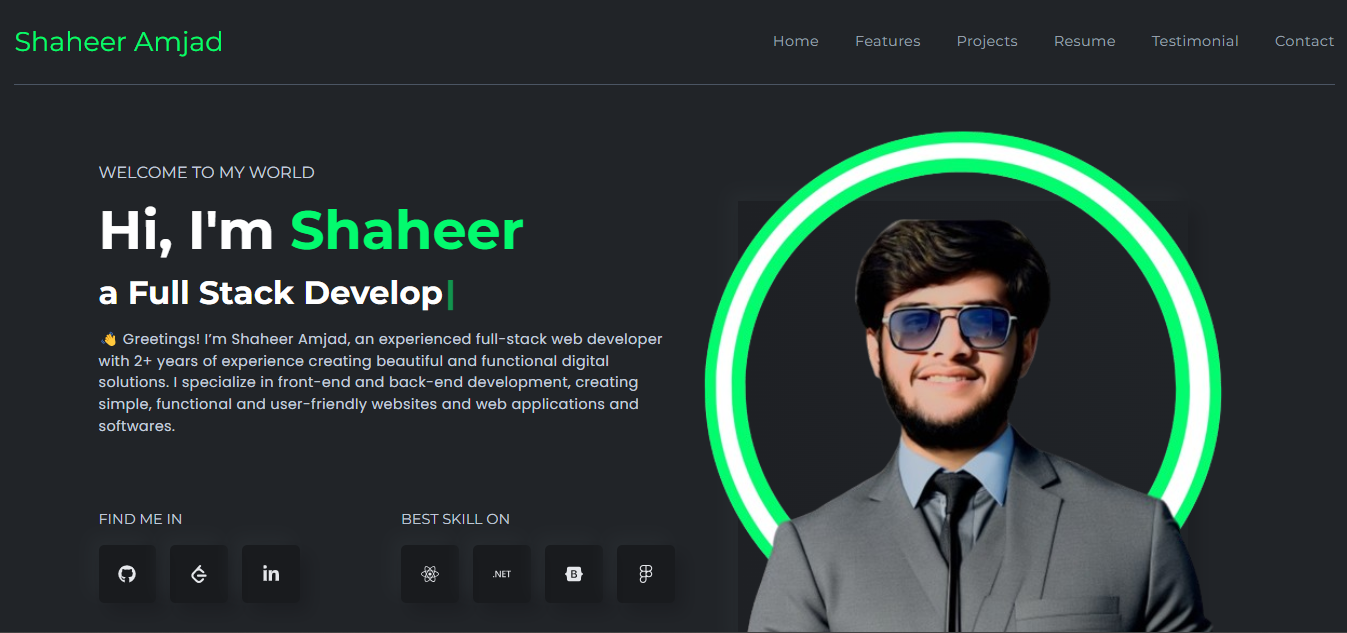
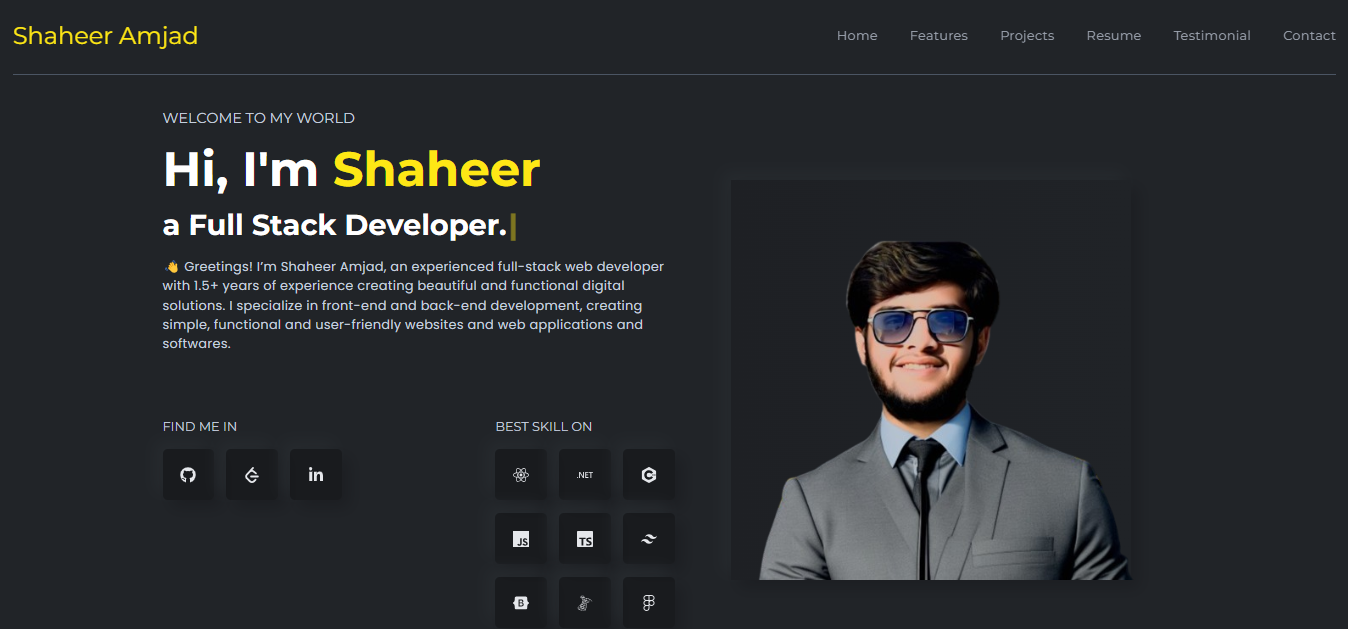
Done

diff --git a/src/components/resume/Skills.js b/src/components/resume/Skills.js
@@ -23,7 +23,7 @@ const Skills = () => {
                 initial={{ x: "-100%", opacity: 0 }}
                 animate={{ x: 0, opacity: 1 }}
                 transition={{ duration: 0.5, delay: 0.5 }}
-                className="w-full h-full bg-gradient-to-r from-blue-600 via-pink-500 to-red-500 rounded-md relative"
+                className="w-full h-full bg-gradient-to-r from-blue-600 via-pink-500 to-yellow-500 rounded-md relative"
               >
                 <span className="absolute -top-7 right-0">100%</span>
               </motion.span>
@@ -36,7 +36,7 @@ const Skills = () => {
                 initial={{ x: "-100%", opacity: 0 }}
                 animate={{ x: 0, opacity: 1 }}
                 transition={{ duration: 0.5, delay: 0.5 }}
-                className="w-[90%] h-full bg-gradient-to-r from-blue-600 via-pink-500 to-red-500 rounded-md relative"
+                className="w-[90%] h-full bg-gradient-to-r from-blue-600 via-pink-500 to-yellow-500 rounded-md relative"
               >
                 <span className="absolute -top-7 right-0">90%</span>
               </motion.span>
@@ -49,7 +49,7 @@ const Skills = () => {
                 initial={{ x: "-100%", opacity: 0 }}
                 animate={{ x: 0, opacity: 1 }}
                 transition={{ duration: 0.5, delay: 0.5 }}
-                className="w-[80%] h-full bg-gradient-to-r from-blue-600 via-pink-500 to-red-500 rounded-md relative"
+                className="w-[80%] h-full bg-gradient-to-r from-blue-600 via-pink-500 to-yellow-500 rounded-md relative"
               >
                 <span className="absolute -top-7 right-0">80%</span>
               </motion.span>
@@ -62,7 +62,7 @@ const Skills = () => {
                 initial={{ x: "-100%", opacity: 0 }}
                 animate={{ x: 0, opacity: 1 }}
                 transition={{ duration: 0.5, delay: 0.5 }}
-                className="w-[85%] h-full bg-gradient-to-r from-blue-600 via-pink-500 to-red-500 rounded-md relative"
+                className="w-[85%] h-full bg-gradient-to-r from-blue-600 via-pink-500 to-yellow-500 rounded-md relative"
               >
                 <span className="absolute -top-7 right-0">85%</span>
               </motion.span>
@@ -75,7 +75,7 @@ const Skills = () => {
                 initial={{ x: "-100%", opacity: 0 }}
                 animate={{ x: 0, opacity: 1 }}
                 transition={{ duration: 0.5, delay: 0.5 }}
-                className="w-[95%] h-full bg-gradient-to-r from-blue-600 via-pink-500 to-red-500 rounded-md relative"
+                className="w-[95%] h-full bg-gradient-to-r from-blue-600 via-pink-500 to-yellow-500 rounded-md relative"
               >
                 <span className="absolute -top-7 right-0">95%</span>
               </motion.span>
@@ -99,7 +99,7 @@ const Skills = () => {
                 initial={{ x: "-100%", opacity: 0 }}
                 animate={{ x: 0, opacity: 1 }}
                 transition={{ duration: 0.5, delay: 0.5 }}
-                className="w-full h-full bg-gradient-to-r from-blue-600 via-pink-500 to-red-500 rounded-md relative"
+                className="w-full h-full bg-gradient-to-r from-blue-600 via-pink-500 to-yellow-500 rounded-md relative"
               >
                 <span className="absolute -top-7 right-0">100%</span>
               </motion.span>
@@ -112,7 +112,7 @@ const Skills = () => {
                 initial={{ x: "-100%", opacity: 0 }}
                 animate={{ x: 0, opacity: 1 }}
                 transition={{ duration: 0.5, delay: 0.5 }}
-                className="w-[95%] h-full bg-gradient-to-r from-blue-600 via-pink-500 to-red-500 rounded-md relative"
+                className="w-[95%] h-full bg-gradient-to-r from-blue-600 via-pink-500 to-yellow-500 rounded-md relative"
               >
                 <span className="absolute -top-7 right-0">95%</span>
               </motion.span>
@@ -125,7 +125,7 @@ const Skills = () => {
                 initial={{ x: "-100%", opacity: 0 }}
                 animate={{ x: 0, opacity: 1 }}
                 transition={{ duration: 0.5, delay: 0.5 }}
-                className="w-[80%] h-full bg-gradient-to-r from-blue-600 via-pink-500 to-red-500 rounded-md relative"
+                className="w-[80%] h-full bg-gradient-to-r from-blue-600 via-pink-500 to-yellow-500 rounded-md relative"
               >
                 <span className="absolute -top-7 right-0">80%</span>
               </motion.span>
@@ -138,7 +138,7 @@ const Skills = () => {
                 initial={{ x: "-100%", opacity: 0 }}
                 animate={{ x: 0, opacity: 1 }}
                 transition={{ duration: 0.5, delay: 0.5 }}
-                className="w-[75%] h-full bg-gradient-to-r from-blue-600 via-pink-500 to-red-500 rounded-md relative"
+                className="w-[75%] h-full bg-gradient-to-r from-blue-600 via-pink-500 to-yellow-500 rounded-md relative"
               >
                 <span className="absolute -top-7 right-0">75%</span>
               </motion.span>
@@ -153,7 +153,7 @@ const Skills = () => {
                 initial={{ x: "-100%", opacity: 0 }}
                 animate={{ x: 0, opacity: 1 }}
                 transition={{ duration: 0.5, delay: 0.5 }}
-                className="w-[90%] h-full bg-gradient-to-r from-blue-600 via-pink-500 to-red-500 rounded-md relative"
+                className="w-[90%] h-full bg-gradient-to-r from-blue-600 via-pink-500 to-yellow-500 rounded-md relative"
               >
                 <span className="absolute -top-7 right-0">90%</span>
               </motion.span>

diff --git a/src/components/tesimonial/Testimonial.js b/src/components/tesimonial/Testimonial.js
@@ -75,7 +75,7 @@ const Testimonial = () => {
                 width: "12px",
                 height: "12px",
                 color: "blue",
-                background: "#03fb6e",
+                background: "#FEE715",
                 borderRadius: "50%",
                 cursor: "pointer",
               }
@@ -119,7 +119,7 @@ const Testimonial = () => {
                       Dr med Abdul Quddus Khokhar FRSA
                     </h3>
                     <p className="text-base tracking-wide text-gray-500">
-                      CEO | Member World Medical Association
+                      MBBS | Member World Medical Association
                     </p>
                   </div>
                 </div>

diff --git a/src/components/banner/LeftBanner.js b/src/components/banner/LeftBanner.js
@@ -19,6 +19,7 @@ const LeftBanner = () => {
       "Software Engineer.",
       "Full Stack Developer.",
       "Problem Solver.",
+      "CS Enthusiast",
       "UI/UX Designer.",
     ],
     loop: true,
@@ -38,7 +39,7 @@ const LeftBanner = () => {
           <Cursor
             cursorBlinking="false"
             cursorStyle="|"
-            cursorColor="#03fb6e"
+            cursorColor="#FEE715"
           />
         </h2>
         <p className="text-base font-bodyFont leading-6 tracking-wide">

diff --git a/src/components/resume/Resume.js b/src/components/resume/Resume.js
@@ -13,7 +13,7 @@ const Resume = () => {
   return (
     <section id="resume" className="w-full py-20 border-b-[1px] border-b-black">
       <div className="flex justify-center items-center text-center">
-        <Title title="2+ YEARS OF EXPERIENCE" des="My Resume" />
+        <Title title="1.5+ YEARS OF EXPERIENCE" des="My Resume" />
       </div>
       <div>
         <ul className="w-full grid grid-cols-1 md:grid-cols-2 xl:grid-cols-4">

diff --git a/src/components/banner/RightBanner.js b/src/components/banner/RightBanner.js
@@ -5,7 +5,7 @@ const RightBanner = () => {
   return (
     <div className="w-full lgl:w-1/2 flex justify-center items-center relative">
       <img
-        className="w-[300px] h-[400px] lgl:w-[490px] lgl:h-[490px] z-10"
+        className="w-[300px] h-[400px] lgl:w-[530px] lgl:h-[530px] z-10"
         src={bannerImg}
         alt="bannerImg"
       />

diff --git a/tailwind.config.js b/tailwind.config.js
@@ -21,7 +21,7 @@ module.exports = {
         bodyColor: "#212428",
         lightText: "#c4cfde",
         boxBg: "linear-gradient(145deg, #1e2024, #23272b)",
-        designColor: "#03fa6e",
+        designColor: "#FEE715",
       },
       boxShadow: {
         shadowOne: "10px 10px 19px #1c1e22, -10px -10px 19px #262a2e",

diff --git a/src/components/contact/ContactLeft.js b/src/components/contact/ContactLeft.js
@@ -1,7 +1,7 @@
 import React from "react";
 import { FaGithub, FaLinkedinIn } from "react-icons/fa";
 import { SiLeetcode } from "react-icons/si";
-import { bannerImg, contactImg } from "../../assets/index";
+import { bannerImg } from "../../assets/index";
 
 const ContactLeft = () => {
   return (
